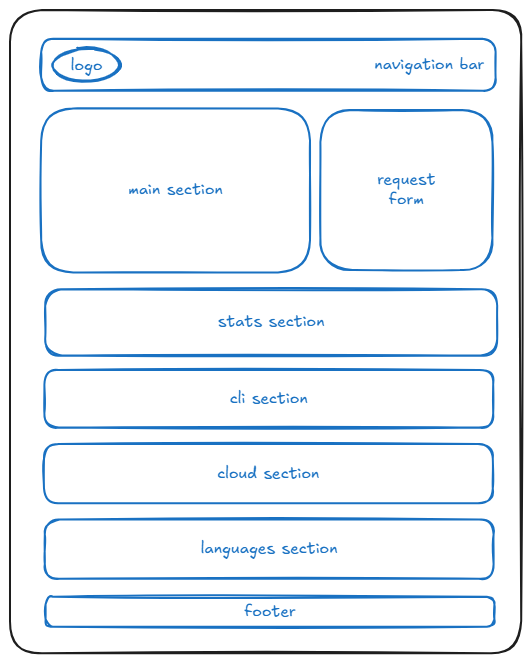
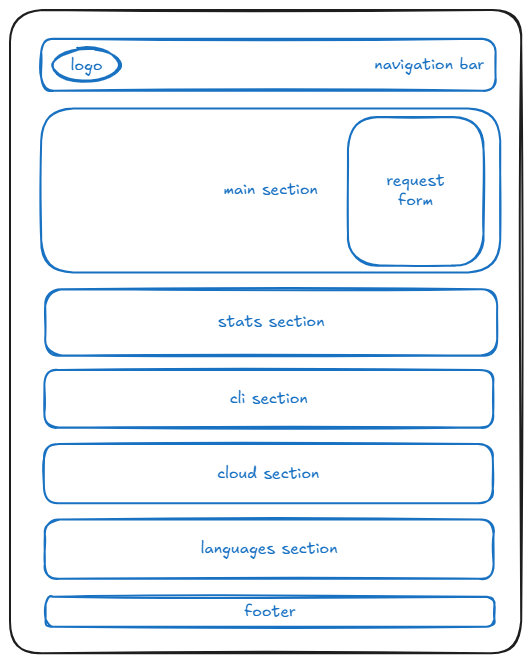
design update

Changed region(s): [[0.2411, 0.1508, 0.9642, 0.4223], [0.7232, 0.2413, 0.8437, 0.3318]]

diff --git a/planning/design.md b/planning/design.md
@@ -2,6 +2,6 @@
 
 ## Wireframe
 
-<https://excalidraw.com/#json=1kss7mdGMlKzNW92Ktuu_,RcylwZ4LOVUbRK_1xWCiYQ>
+<https://excalidraw.com/#json=TBIYhGJ1lsbH-bsDHC2ki,P452Uh8oJCCpidpLQx-2Iw>
 
 ![website-design](./design.png)
